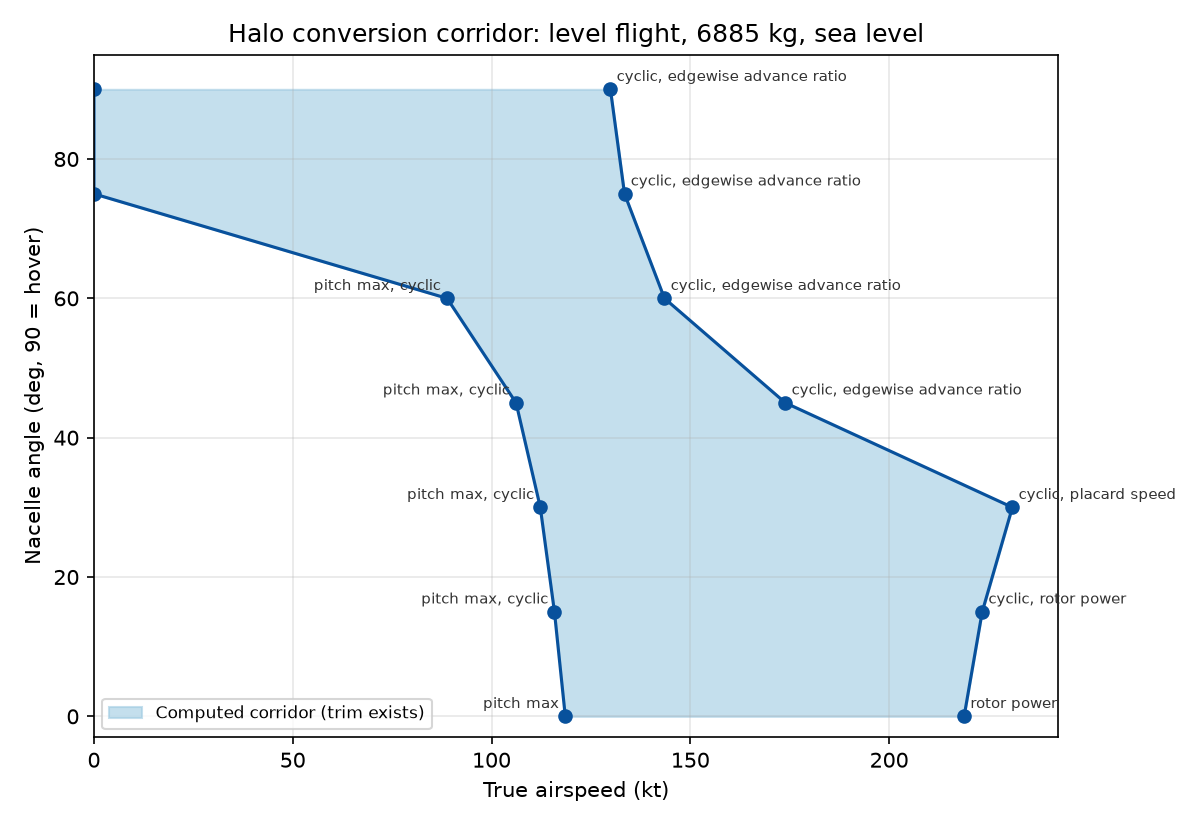
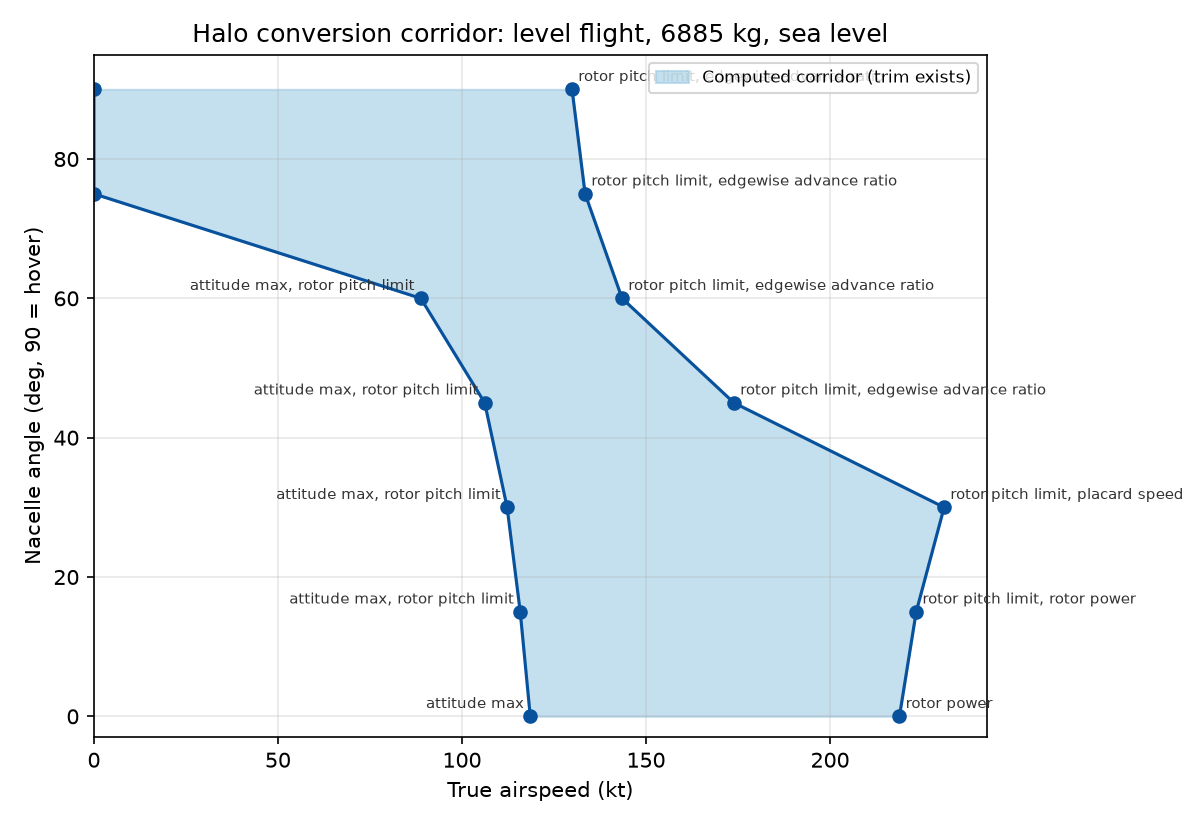
docs: README modules diagram, powertrain network and ports, sources for machines, battery and engine deck; corridor plot says "rotor pitch limit"
- The ASCII overview becomes a module diagram with the sizing feedback loop.
- "Findings worth knowing" is dropped.
- Powertrain gets a network diagram and a ports explanation. Performance names the typed ports and the named
  binding constraints.
- Links: McDonald (AIAA 2015-1676), the cited machine database (Evolito D1500, Helix SPX242), Paudel et al.
  2025 for the 50G cell with the scaling used (power x5, energy unscaled, end of life), and the GASP-derived deck
  (user-supplied, not committed).
- Aerodynamics notes the V-tail effectiveness factor (cos of the tail dihedral; 0 deg in the baseline).
- The corridor figure labels the disc-tilt limit "rotor pitch limit" and the attitude limit "attitude max"
  (regenerated on v3.6; numbers unchanged).

diff --git a/examples/halo_conversion_corridor.py b/examples/halo_conversion_corridor.py
@@ -22,6 +22,8 @@ from examples.halo_sizing import (HaloAssumptions, HaloRequirements, build_halo_
 
 ratio_placard_speed = 1.1           # airplane-mode limit speed over the required maximum speed (assumed)
 tilts_deg = (0.0, 15.0, 30.0, 45.0, 60.0, 75.0, 90.0)
+# Plot labels for the limit names in `CorridorLimits` margins; others print with underscores as spaces.
+labels_limit = {"disc_tilt": "rotor pitch limit", "pitch_max": "attitude max", "pitch_min": "attitude min"}
 
 
 def halo_corridor_case(sizing, requirements=HaloRequirements(), assumptions=HaloAssumptions()):
@@ -105,7 +107,8 @@ def plot_corridor(corridor, sizing, model, path):
             names = [n for n in bound.binding if n not in ("hover",)]
             if names:
                 offset = -3 if align == "right" else 3
-                ax.annotate(", ".join(n.replace("_", " ") for n in names), (bound.velocity_m_s / u.knot, bound.tilt_deg),
+                ax.annotate(", ".join(labels_limit.get(n, n.replace("_", " ")) for n in names),
+                            (bound.velocity_m_s / u.knot, bound.tilt_deg),
                             xytext=(offset, 4), textcoords="offset points", ha=align, fontsize=7, color="#333333")
     ax.set_xlabel("True airspeed (kt)")
     ax.set_ylabel("Nacelle angle (deg, 90 = hover)")
@@ -113,7 +116,7 @@ def plot_corridor(corridor, sizing, model, path):
     ax.set_xlim(left=0)
     ax.set_ylim(-3, 95)
     ax.grid(alpha=0.3)
-    ax.legend(loc="lower left", fontsize=8)
+    ax.legend(loc="upper right", fontsize=8)
     fig.tight_layout()
     fig.savefig(path, dpi=150)
     plt.close(fig)

diff --git a/README.md b/README.md
@@ -50,16 +50,6 @@ The model works in SI internally; [docs/RESULTS.md](docs/RESULTS.md) gives the S
 - **Heat exchanger:** the hot-day hover.
 - **Tails:** static margin and directional stability.
 
-**Findings worth knowing:**
-
-- With these engines, payload goes to zero near 228 kt, so 250 kt is out of reach at any size.
-- A realistic (equivalent-circuit) battery costs about 510 lb (230 kg) of payload against an ideal one.
-- Real catalogue machines change the architecture, not just the mass. A freely scalable motor wants about
-  13,000 rpm behind a 32:1 gearbox; whole units of real products want slow, stacked axial-flux motors behind a
-  single stage.
-- In conversion, the optimized transition rides the low-speed side of the computed corridor; no level,
-  constant-acceleration conversion fits inside it.
-
 ## Aircraft versions
 
 Every aircraft sized during development is a numbered version and stays reproducible from a named
@@ -91,33 +81,39 @@ reserve loiter, except where the table says otherwise.
 | v3.5 | 16,303 lb | as v3.4 | Trim drag from the tail load |
 | **v3.6 (baseline)** | **15,179 lb** | as v3.4 (the requirements table above) | Layout line (v3.3.4, v3.3.5) merged into v3.5, with every model on |
 
-## What it does
+## Modules overview: What it does
 
-```
-requirements ──┐
-mission ───────┤      components return equations and residuals,
-powertrain ────┤      never variables or loops
-aero / rotor ──┼──►  ONE asb.Opti problem  ──►  IPOPT  ──►  sized aircraft + mission + energy split
-weights ───────┤      caller owns every variable, constraint
-stability ─────┤      and the objective
-thermal ───────┤
-failure cases ─┘
+```mermaid
+flowchart LR
+    REQ["<b>requirements/</b><br/>payload, range, speed,<br/>hover, failure cases"]
+    subgraph MODELS["Discipline modules: each returns equations, none solves"]
+        direction TB
+        AERO["<b>aerodynamics/</b><br/>AeroBuildup, Scholz,<br/>download, trim drag"]
+        PT["<b>powertrain/</b> + <b>core/</b><br/>rotor, motors, generators,<br/>battery, turboshaft, gearboxes<br/>joined by typed ports"]
+        WT["<b>vehicle/</b> + <b>weights/</b><br/>AFDD, Raymer,<br/>mass and CG"]
+        CTRL["<b>controls/</b><br/>static margin, trim"]
+        TH["<b>thermal/</b><br/>heat exchanger,<br/>short-time ratings"]
+    end
+    PERF["<b>performance/</b> + <b>mission/</b><br/>flight points and<br/>mission segments"]
+    OPTI{{"ONE asb.Opti problem<br/>IPOPT"}}
+    OUT["<b>Sized aircraft</b><br/>mission and energy split,<br/>named binding constraints"]
+    TRAJ["<b>trajectory/</b><br/>conversion corridor,<br/>trajectories"]
+    EXP["<b>export/openvsp/</b><br/>OpenVSP, VSPAERO,<br/>CalculiX"]
+
+    REQ --> PERF
+    MODELS -- "equations and residuals" --> PERF
+    PERF -- "constraints: mass closure, power balance,<br/>state of charge, margins" --> OPTI
+    OPTI -- "design variables: mass, wing, rotor,<br/>machines, battery, fuel, per-point operation" --> MODELS
+    OPTI --> OUT
+    OUT -. "checks after sizing" .-> TRAJ
+    OUT -. "checks after sizing" .-> EXP
 ```
 
-- **One problem, no hidden loops.** Mass closure, mission fuel and state of charge, battery-versus-generator energy
-  allocation and every failure case are constraints in the same problem. Derivatives come from CasADi automatic
-  differentiation.
-- **Typed powertrain network.** Components connect through ports (shaft, DC bus) with multiplicity, so "two lanes
-  per rotor, two buses, two strings" is a topology, not hand-written bookkeeping. Speed, torque, voltage, current
-  and power compatibility are checked as normalized margins.
-- **Named binding constraints.** Every margin has a name, so the solver reports *what* sizes the aircraft.
-- **Fidelity in layers.** Each model sits behind a simple interface, and the simple version is kept, so the effect
-  of each model on the answer is traceable
-  ([how the answer moved](docs/RESULTS.md#4-how-the-answer-moved-as-fidelity-was-added)).
-- **Conversion and trajectories.** The sized aircraft is trimmed at every nacelle angle to compute its conversion
-  corridor, then flown by direct collocation (minimum-energy transition, time to climb) inside it.
-- **Geometry and structure exports.** The sized aircraft goes to OpenVSP (outer mold line, internal structure,
-  STEP/STL), VSPAERO and CalculiX as independent checks; nothing in the sizing depends on them.
+The loop is solved all at once, not iterated. Every module returns equations in the design variables, and IPOPT
+closes mass, power, energy and every margin together, with derivatives from CasADi. The dashed modules run on
+the sized aircraft afterwards, and nothing in the sizing depends on them. Each model sits behind a simple
+interface, and the simpler version is kept, so the effect of each model on the answer is traceable
+([how the answer moved](docs/RESULTS.md#4-how-the-answer-moved-as-fidelity-was-added)).
 
 ## By discipline
 
@@ -134,11 +130,15 @@ Approach and effort for each next step: [docs/NEXT_STEPS.md](docs/NEXT_STEPS.md)
 - Point performance as requirements: hover at 4,000 ft and on a hot day, ceiling, maximum speed, stall, and 60 s
   failure hovers.
 - Mass closure with a full breakdown, and a cost per mission (about $3,300, with labelled price assumptions).
+- **Typed ports.** Each flight point is built from components connected through typed ports (shaft, DC bus)
+  with multiplicity. "Two lanes per rotor, two buses, two strings" is a topology declaration rather than
+  hand-written bookkeeping. Each connection adds its speed, torque, voltage, current and power balance as named
+  constraints.
+- **Named binding constraints.** Every margin has a name, so the solver reports *what* sizes the aircraft: for
+  example the engine-out hover battery voltage, the bus-out motor torque, or the hot-day heat rejection.
 
 **Doesn't do**
 - No payload-range diagram and no maximum endurance. Performance is computed at the design mission only.
-- No energy-flow (Sankey) diagram from fuel and battery to the rotors, although the per-segment powers and losses
-  are already in the solution.
 
 **Next**
 - A payload-range diagram and endurance: re-solve the fixed aircraft at off-design payload.
@@ -158,7 +158,11 @@ Approach and effort for each next step: [docs/NEXT_STEPS.md](docs/NEXT_STEPS.md)
 **Doesn't do**
 - Drag is not anchored to flight data. The excrescence factor matches NASA NDARC's XV-15 estimate, and drag drives
   payload headroom more than anything else.
-- No conversion-mode aerodynamics. The V-tail is drawn, but the sizing uses a conventional tail.
+- No conversion-mode aerodynamics.
+- The V-tail is not in the baseline sizing. A V-tail effectiveness factor exists: the cosine of the tail dihedral
+  scales its pitch effectiveness in the trim-drag model, and Scholz's V-tail interference factor applies to its
+  drag. The baseline, however, sets the dihedral to 0° and sizes a conventional horizontal and vertical tail; the
+  V-tail is only drawn.
 - Airplane-mode rotor efficiency comes from the JVX test, not flight data.
 
 **Next:** anchor drag and cruise rotor efficiency to the XV-15 power-required curve, then size the V-tail.
@@ -169,13 +173,70 @@ Approach and effort for each next step: [docs/NEXT_STEPS.md](docs/NEXT_STEPS.md)
 ### Powertrain
 
 **Does**
-- A typed series-hybrid network of ports and buses, with multiplicity: 2 motor lanes per rotor, 2 cross-strapped
-  buses, 2 battery strings.
+- A typed series-hybrid network, declared as components joined through ports, with multiplicity: 2 motor lanes per
+  rotor, 2 cross-strapped buses, 2 battery strings.
+
+```mermaid
+flowchart LR
+    subgraph TG["2 x turbogenerator"]
+        direction LR
+        TS["Turboshaft<br/>1,120 hp, fixed"] -- "shaft" --> GBG["Step-up<br/>gearbox"] -- "shaft" --> GEN["Generator<br/>3 units"]
+    end
+    subgraph PACK["Battery: 2 isolated strings"]
+        S1["String 1"]
+        S2["String 2"]
+    end
+    BUSA[["DC bus A"]]
+    BUSB[["DC bus B"]]
+    GEN -- "DC" --> BUSA
+    GEN -- "DC" --> BUSB
+    S1 -- "DC" --> BUSA
+    S2 -- "DC" --> BUSB
+    BUSA <-. "tie, normally open" .-> BUSB
+    subgraph ROTOR["2 x rotor"]
+        direction LR
+        LA["Motor lane 1<br/>2 units"]
+        LB["Motor lane 2<br/>2 units"]
+        GBR["Combining gearbox<br/>4.5:1"]
+        PR["Proprotor"]
+        LA -- "shaft" --> GBR
+        LB -- "shaft" --> GBR
+        GBR -- "shaft" --> PR
+    end
+    BUSA -- "DC" --> LA
+    BUSB -- "DC" --> LB
+```
+
+  **Ports.** Every component declares typed ports: a shaft port carries speed and torque, a DC port voltage and
+  current, a fuel port fuel flow. The network is written as a topology of connections with counts ("2 lanes per
+  rotor, 2 buses, 2 strings"), not as hand-written equations. From that declaration the framework does three things:
+  - it rejects wrong wiring before any solve, such as a shaft port joined to a DC port;
+  - it writes the connection equations as constraints (shared speed and torque across a shaft, the power balance on
+    each bus);
+  - it checks speed, torque, voltage, current and power compatibility as named, normalized margins.
+
+  A failure case reuses the same network with fewer active units (a lane, a bus or a string out), so redundancy
+  is a topology choice instead of new bookkeeping.
 - Components:
-  - McDonald-loss machines built from whole units of real products, chosen from a supplier database;
+  - electric machines with the loss model of McDonald, "Modeling of Electric Motor Driven Propellers for Conceptual
+    Aircraft Design", [AIAA 2015-1676](https://doi.org/10.2514/6.2015-1676). They are built from whole units of
+    real products, taken from a cited database of 21 aerospace machines
+    ([`data/machines/aerospace_motors.csv`](data/machines/aerospace_motors.csv)). The baseline uses one product per
+    role: [Evolito D1500](https://evolito.aero/axial-flux-motors/)-class motors and
+    [Helix SPX242](https://www.ehelix.com/products/spx242/)-class generators;
   - gearboxes with stage counts;
-  - a Samsung 50G-shaped equivalent-circuit battery with sag and an end-of-life rating;
-  - the fixed 1,120 hp turboshaft deck with lapse and a part-power fuel curve;
+  - an equivalent-circuit battery (open-circuit voltage, resistance and two RC pairs) fitted to the Samsung
+    INR21700-50G cell data of Paudel et al., [*Batteries* 2025, 11, 313](https://doi.org/10.3390/batteries11080313)
+    ([`data/batteries/`](data/batteries/)). Scaling used in the baseline:
+    - **power:** resistance divided by 5 and current rating multiplied by 5 (10C continuous), a more power-dense
+      cell of the same shape;
+    - **energy:** not scaled. The cell is 4.9 Ah and 69 g (about 255 Wh/kg); cells are 70 % of pack mass;
+    - **end of life:** 80 % of capacity and 1.5 times the resistance;
+    - **pack:** 210 cells in series (756 V nominal), two isolated strings, cells held at 77 °F (25 °C);
+  - the fixed 1,120 hp turboshaft, from a user-supplied GASP_TS-derived engine deck (`MAPS_1120hp.eng`, not
+    committed), with density and temperature lapse and a part-power fuel curve fitted to the deck. The loader is in
+    [`powertrain/decks.py`](src/aircraft_closure/powertrain/decks.py), and the fit and its checks are in
+    [design log 014](docs/decisions/014-turboshaft-deck-part-power.md);
   - a heat exchanger and short-time thermal ratings.
 - Speed, torque, voltage, current and power compatibility checked as named margins.
 - What sizes it:
